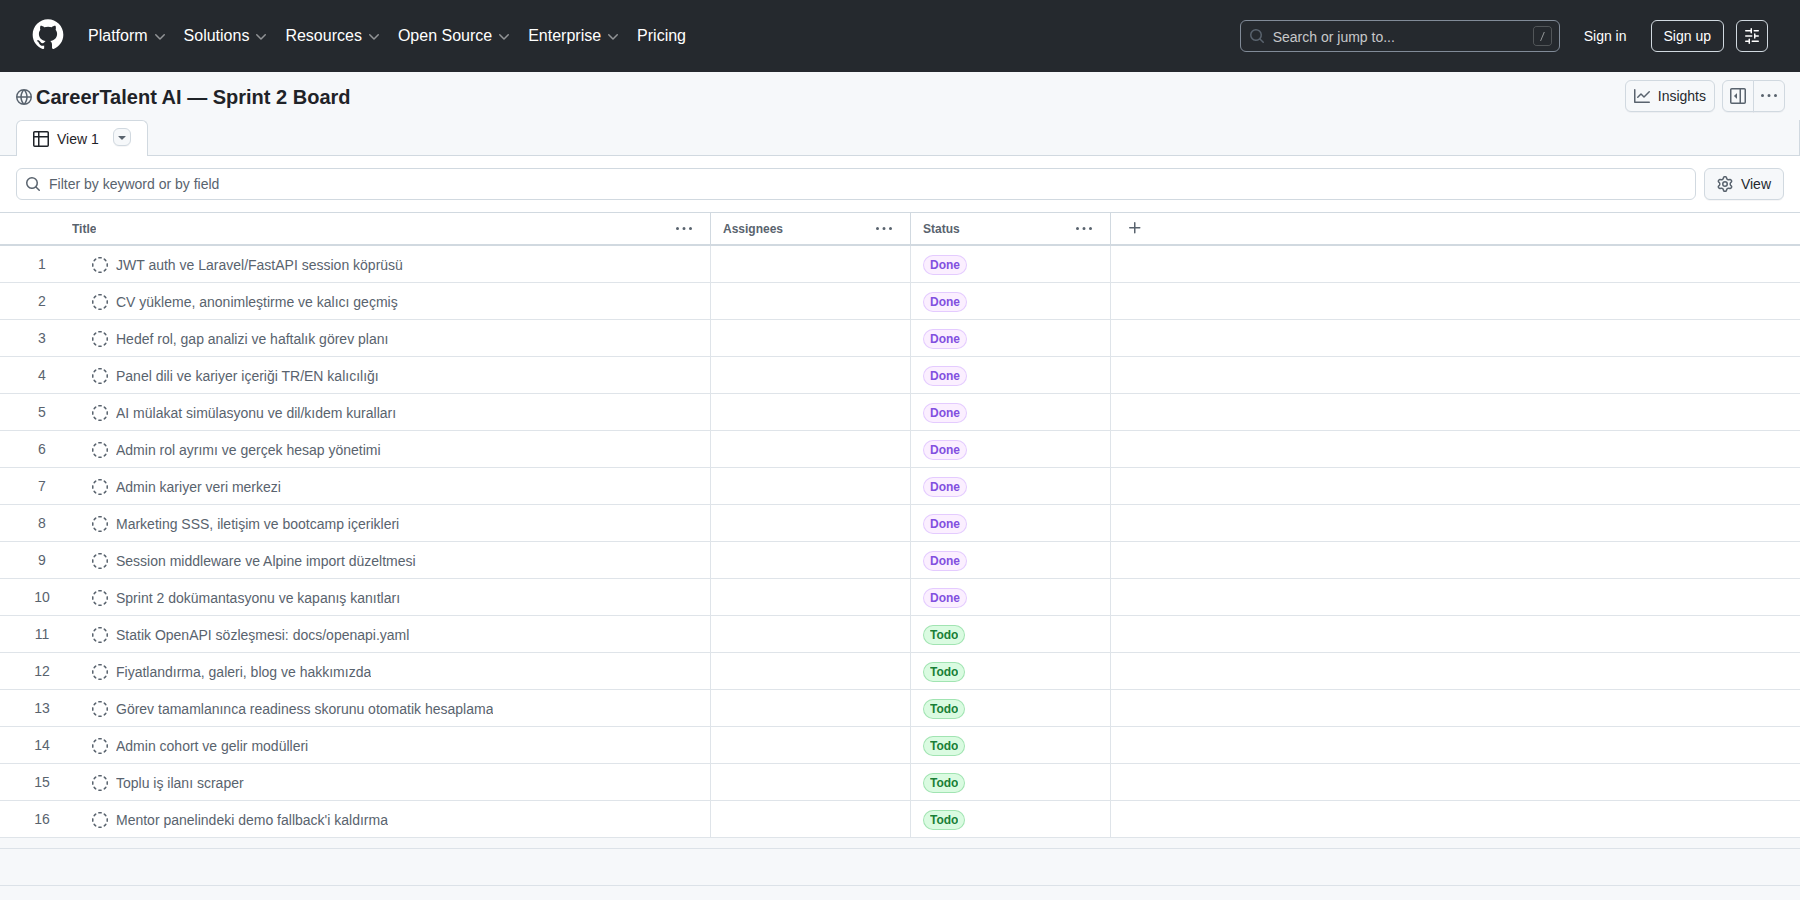
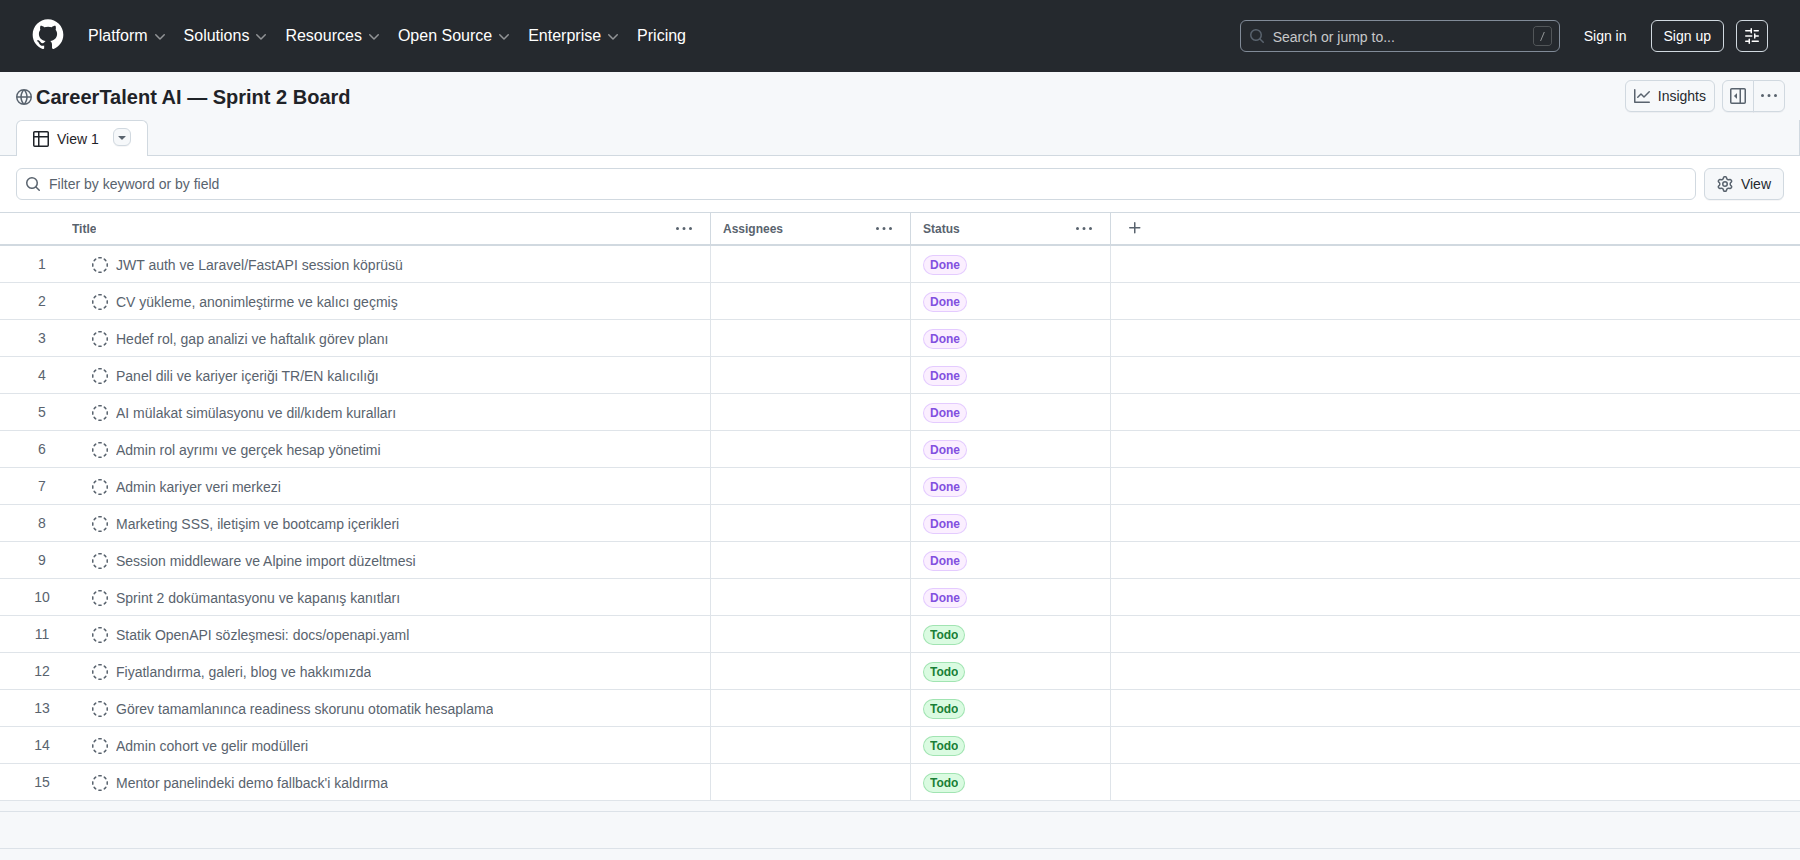
docs(sprint): remove bulk scraper backlog item

diff --git a/README.md b/README.md
@@ -217,9 +217,9 @@ Sprint 1'den devreden auth ve CV analiz kuyruğu **Must** olarak önce kapatıld
 ### Sprint Board Updates
 
 - **Done:** Auth/session, CV upload ve geçmiş, dinamik career engine, hedef planı, locale kalıcılığı, AI mülakat, CV anonimleştirme, gerçek admin modülleri, kariyer veri merkezi, SSS/iletişim/bootcamp ve middleware/Alpine düzeltmesi.
-- **Sprint 3'e taşındı:** `docs/openapi.yaml`, fiyatlandırma/galeri/blog/hakkımızda, tam görev→skor otomasyonu, admin cohort/gelir, toplu scraper ve mentor demo fallback.
+- **Sprint 3'e taşındı:** `docs/openapi.yaml`, fiyatlandırma/galeri/blog/hakkımızda, tam görev→skor otomasyonu, admin cohort/gelir ve mentor demo fallback.
 - **PR kanıtı:** Sprint 2'de PR #2–#11 merge edildi; kapanışta **11 closed / 0 open PR**.
-- **Güncel board:** 19 Temmuz kapanışında GitHub Project üzerinde **10 Done / 6 Todo** kart doğrulandı. Kickoff ve orta nokta görüntüleri bulunmadığı için geçmiş ekran üretilmedi.
+- **Güncel board:** 19 Temmuz kapanışında GitHub Project üzerinde **10 Done / 5 Todo** kart doğrulandı. Kickoff ve orta nokta görüntüleri bulunmadığı için geçmiş ekran üretilmedi.
 
 [Canlı GitHub Project board](https://github.com/users/busebatan/projects/1)
 